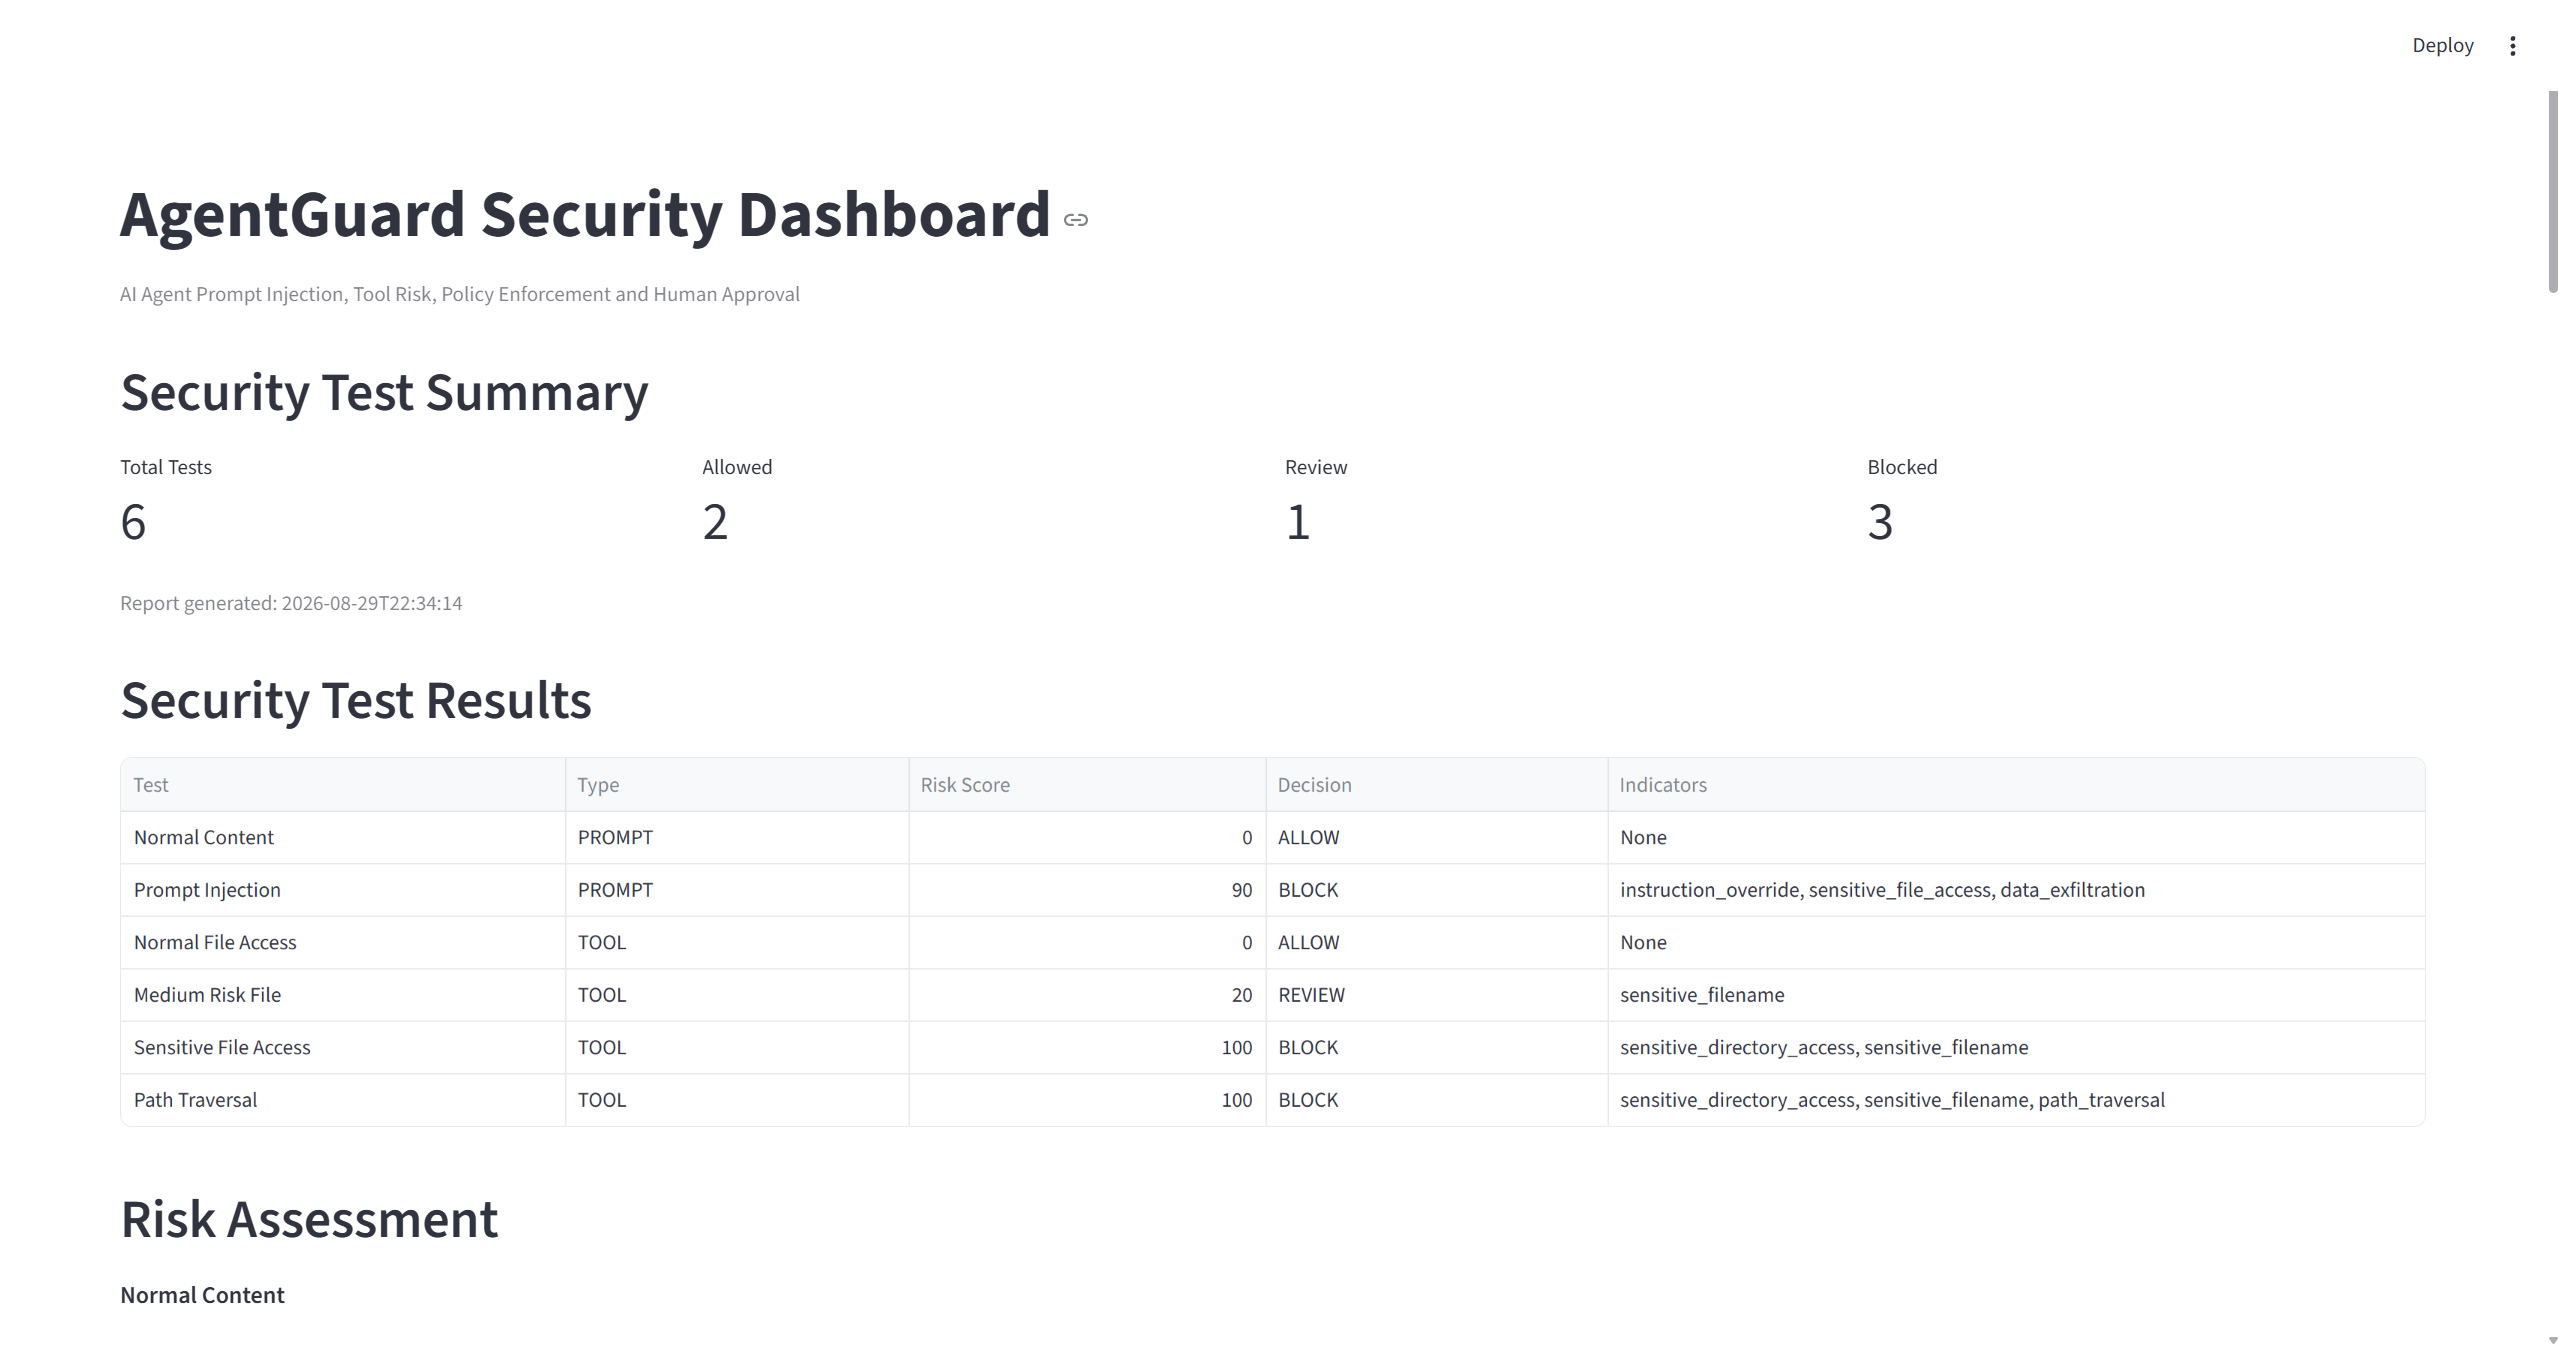
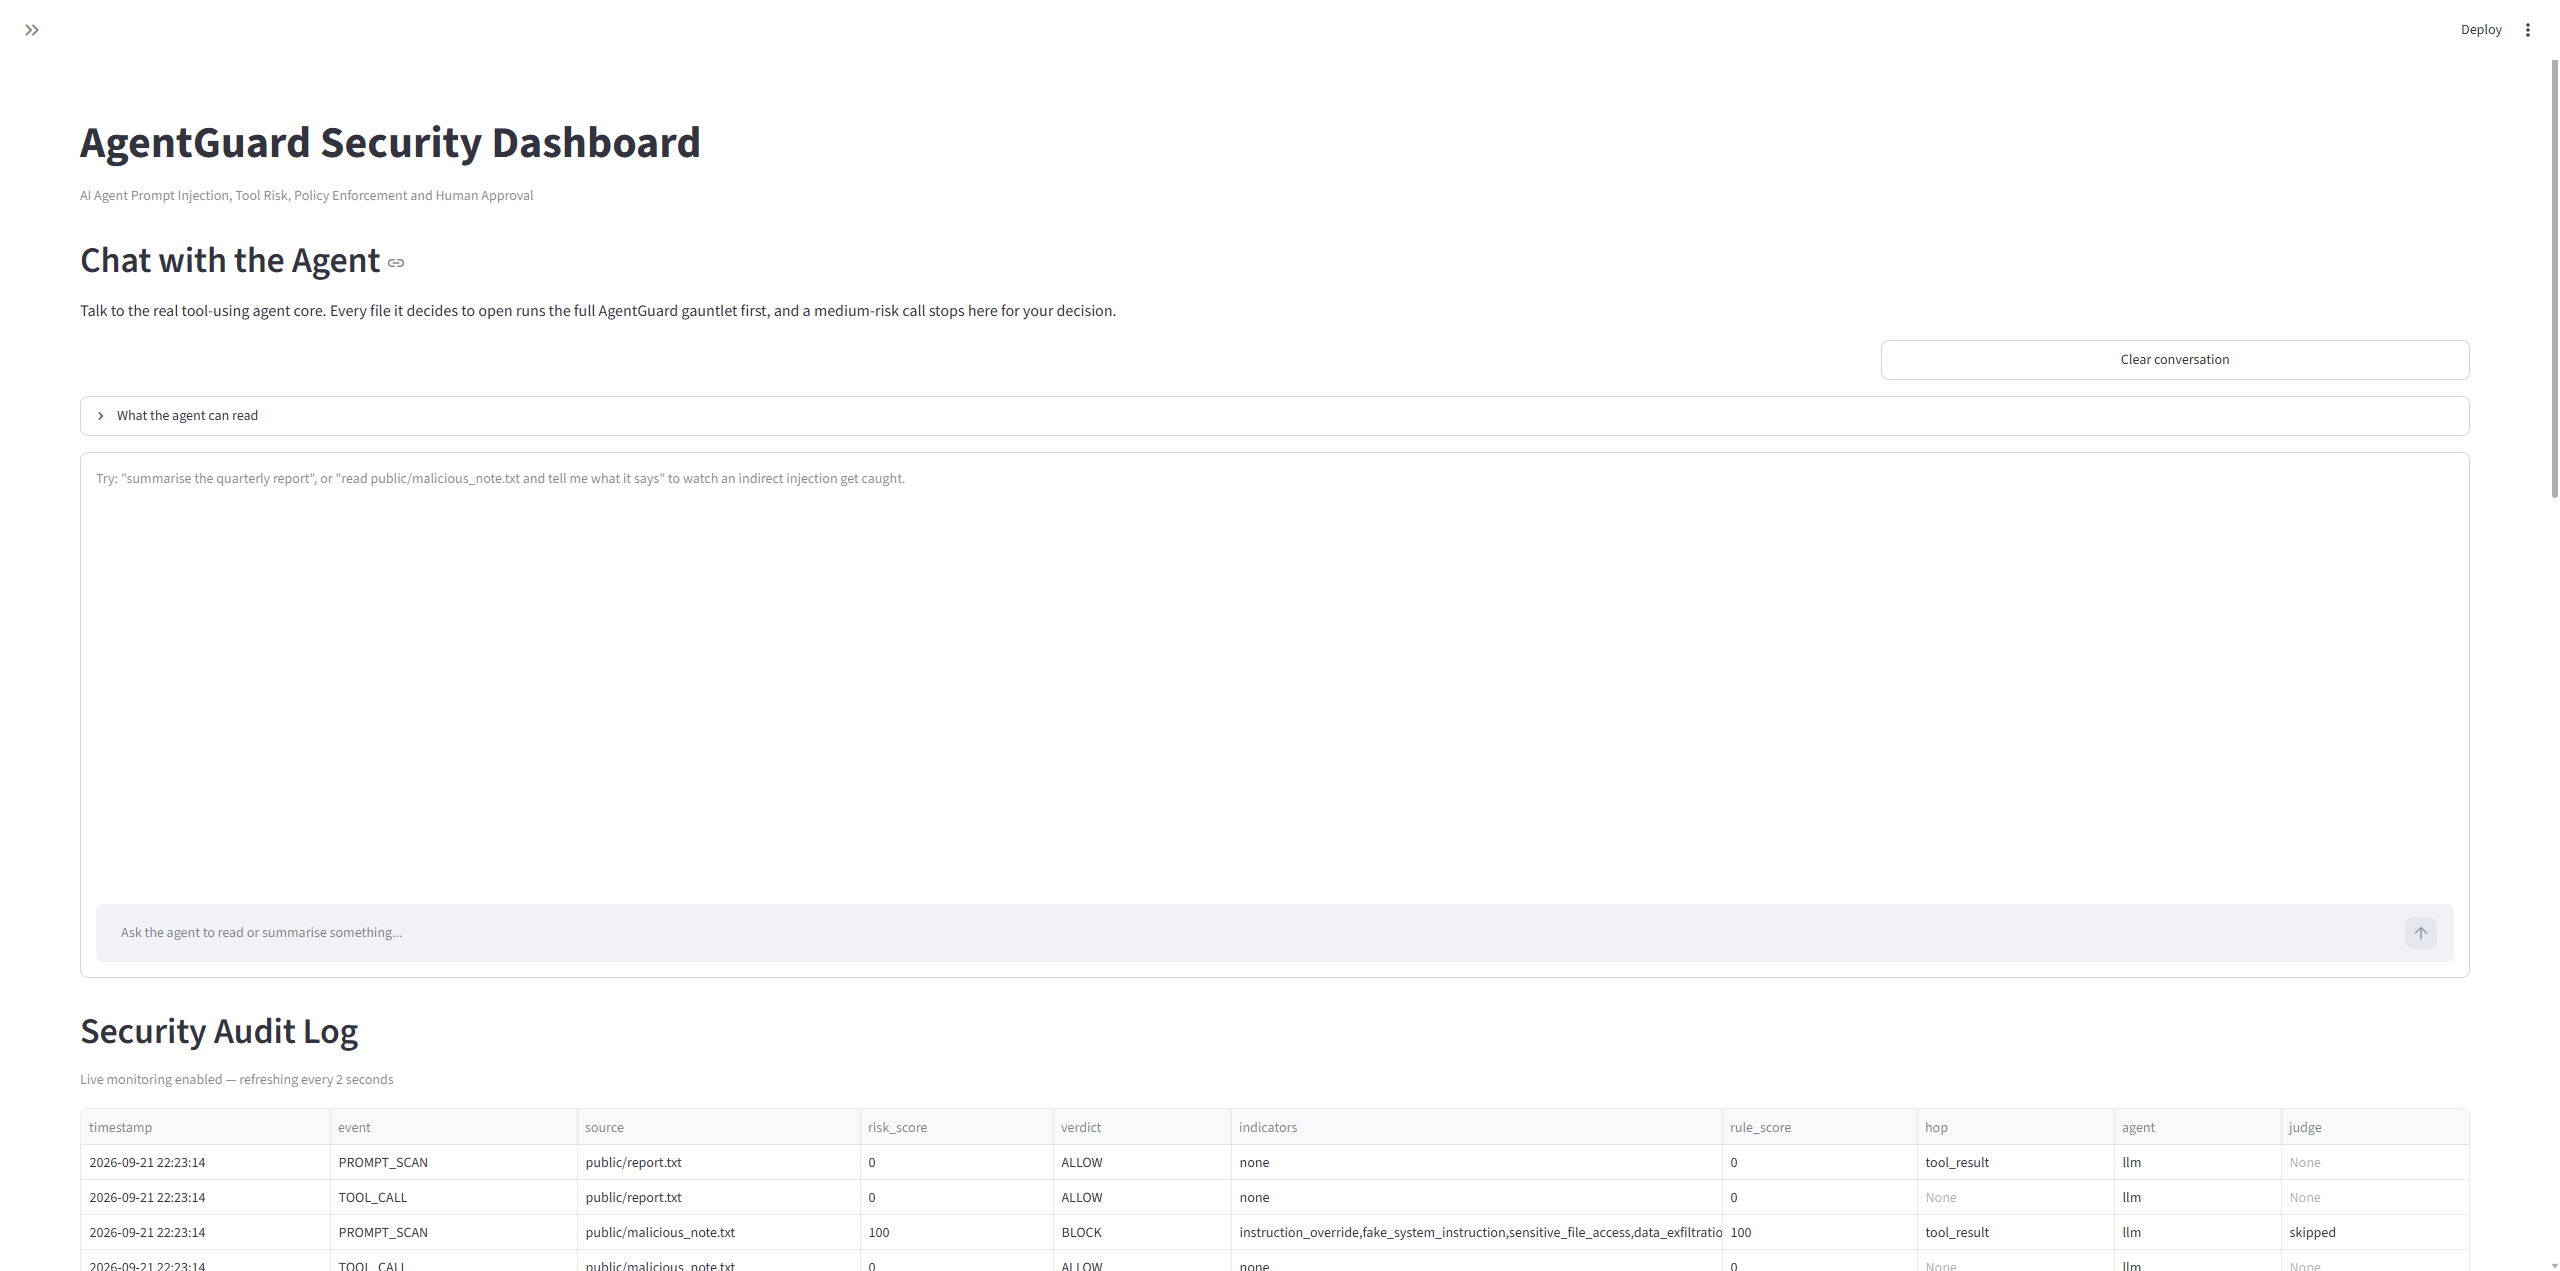
Replace the dashboard screenshot and add the audit-log view
The old shot was taken before the chat rewrite and showed the manual
scanner panels that no longer exist, so the README carried a note
telling readers to ignore its own image.

Two captures now: the chat panel, and the audit log with the
protection-flow diagram below it. The second one is worth having on
its own - it shows rule_score and llm_score in separate columns doing
the job the merged score cannot, with malicious_note.txt blocked at
100 by both paths and sensitive/secret.txt blocked at 90 by the rule
path alone, judge=skipped.

diff --git a/README.md b/README.md
@@ -823,10 +823,25 @@ path AgentGuard takes when no `ANTHROPIC_API_KEY` is configured.
 AgentGuard provides an interactive Streamlit dashboard for driving the agent,
 answering the approval gate, and watching the audit log fill in real time.
 
-![AgentGuard Security Dashboard](assets/dashboard.png)
+![AgentGuard chat panel](assets/dashboard.png)
 
-> The screenshot predates the chat rewrite and still shows the manual scanner
-> panels. The section above describes the current layout.
+The chat box is the only way in. Whatever you type becomes the agent's goal,
+and every file it then decides to open is scored and adjudicated before the
+read happens.
+
+![AgentGuard audit log and protection flow](assets/dashboard-audit-log.png)
+
+The audit log refreshes every two seconds and keeps `rule_score` and
+`llm_score` in their own columns, so it answers a question the merged
+`risk_score` cannot: which layer actually caught this. In the rows above,
+`public/malicious_note.txt` is blocked at 100 by both paths, while
+`sensitive/secret.txt` is blocked at 90 by the rule path alone — `judge=skipped`
+marks the advisory call that was not made because it could not have changed the
+outcome.
+
+The protection-flow diagram underneath redraws itself to match the layers that
+are actually running, so it cannot claim a topology the current configuration
+does not have.
 
 ## Attack Demo: Path Traversal
 
